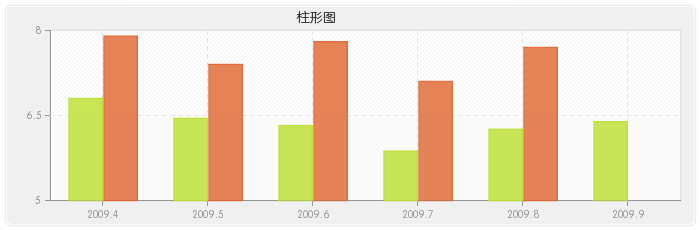
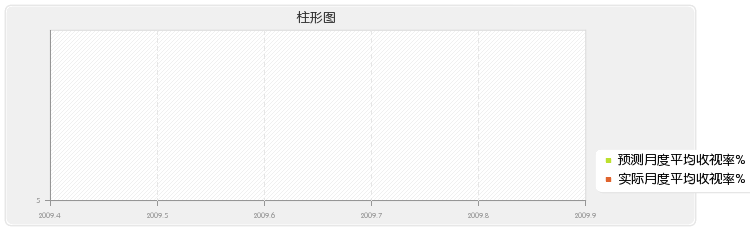
robbin

diff --git a/index.php b/index.php
@@ -578,14 +578,14 @@ total("首页","other");
  				<div class=list_tlm id=list_tlm1 >
  					<ul>
  						<?php for($i=0; $i<count($record_subject); $i++){?>
- 						<li><div style="width:210px; height:20px; line-height:20px; float:left; display:inline;"><span style="color:#CCCCCC">·</span><a title="<?php echo delhtml($record_subject[$i]->short_title); ?>" href="/<?php echo $record_subject[$i]->platform ?>/news/news.php?id=<?php echo $record_subject[$i]->id ?>" target=_blank><?php echo $record_subject[$i]->short_title ?></a></div></li>
+ 						<li><div style="width:200px; height:20px; line-height:20px; float:left; display:inline;"><span style="color:#CCCCCC">·</span><a title="<?php echo delhtml($record_subject[$i]->short_title); ?>" href="/<?php echo $record_subject[$i]->platform ?>/news/news.php?id=<?php echo $record_subject[$i]->id ?>" target=_blank><?php echo $record_subject[$i]->short_title ?></a></div></li>
  						<? }?>
  				  </ul>
  				</div>
  				<div class=list_tlm id=list_tlm2 style="display:inline;">
  					<ul>
  						<?php for($i=0; $i<count($record_out); $i++){?>
- 						<li><div style="width:210px; height:20px; line-height:20px; float:left; display:inline;"><span style="color:#CCCCCC">·</span><a title="<?php echo delhtml($record_out[$i]->short_title); ?>" href="/<?php echo $record_out[$i]->platform ?>/news/news.php?id=<?php echo $record_out[$i]->id ?>" target=_blank><?php echo $record_out[$i]->short_title ?></a></div></li>
+ 						<li><div style="width:200px; height:20px; line-height:20px; float:left; display:inline;"><span style="color:#CCCCCC">·</span><a title="<?php echo delhtml($record_out[$i]->short_title); ?>" href="/<?php echo $record_out[$i]->platform ?>/news/news.php?id=<?php echo $record_out[$i]->id ?>" target=_blank><?php echo $record_out[$i]->short_title ?></a></div></li>
  						<? }?>
  				  </ul>
  				</div>

diff --git a/pChart/Example12.php b/pChart/Example12.php
@@ -9,14 +9,15 @@
 
  // Dataset definition 
  $DataSet = new pData;
- $DataSet->ImportFromCSV('Sample/foldincom.csv',",",array(1,2),flase,0); 
+ $DataSet->ImportFromCSV('Sample/foldincom.csv',",",array(1,2),false,0); 
  $DataSet->AddAllSeries();
  $DataSet->SetAbsciseLabelSerie(); 
  $DataSet->SetSerieName("预测月度平均收视率%","Serie1");
  $DataSet->SetSerieName("实际月度平均收视率%","Serie2");
+
  
  // Initialise the graph
- $Test = new pChart(700,230);
+ $Test = new pChart(750,230);
  $Test->setFontProperties("Fonts/zhunyuan.ttf",8);
  $Test->setGraphArea(50,30,680,200);
  $Test->drawFilledRoundedRectangle(7,7,693,223,5,240,240,240);
@@ -30,13 +31,23 @@
  $Test->drawTreshold(0,143,55,72,TRUE,TRUE);
 
  // Draw the bar graph
- $Test->drawBarGraph($DataSet->GetData(),$DataSet->GetDataDescription(),TRUE,80);
+ $Test->drawBarGraph($DataSet->GetData(),$DataSet->GetDataDescription(),TRUE,80);
+ 
+ $DataSet1 = new pData;
+ $DataSet1->ImportFromCSV('Sample/foldincom.csv',",",array(3,4),false,0); 
+ $DataSet1->AddAllSeries();
+ $DataSet1->SetAbsciseLabelSerie(); 
+ $DataSet1->SetSerieName("置信区间","Serie1");
+
+ $Test->drawLineGraph($DataSet1->GetData(),$DataSet1->GetDataDescription());
+ $Test->drawPlotGraph($DataSet1->GetData(),$DataSet1->GetDataDescription(),3,2,255,255,255);
 
  // Finish the graph
- $Test->setFontProperties("Fonts/zhunyuan.ttf",8);
- $Test->drawLegend(550,$DataSet->GetDataDescription(),255,255,255);
+ $Test->setFontProperties("Fonts/zhunyuan.ttf",10);
+ $Test->drawLegend(596,150,$DataSet->GetDataDescription(),255,255,255);
  $Test->setFontProperties("Fonts/zhunyuan.ttf",10);
  $Test->drawTitle(50,22,"柱形图",50,50,50,585);
  $Test->Render("example12.jpg");
- echo 'OK';
+ 
+ echo "OK";
 ?>

diff --git a/sslfx/index.php b/sslfx/index.php
@@ -32,15 +32,12 @@
 					<form method=post name=sndml action=sendmail.php ENCTYPE="multipart/form-data"> 
 						<table> 
 						<tr ><td>发送者：</td> 
-						<td><input type=text name=from ></td> 
-						</tr> 
-						<tr ><td>主题：</td> 
-						<td><input type=text name=subject ></td> 
+						<td><input type=text name=from ></td>
+						<td>主题：</td> 
+						<td><input type=text name=subject ></td>
 						</tr> 
 						<tr ><td>附件：</td> 
-						<td><input type=file name=upload_file></td> 
-						</tr> 
-						<tr><td>&nbsp</td> 
+						<td><input type=file name=upload_file></td> <td>&nbsp</td> 
 						<td><input type="submit" value="发送"> 
 						</td> 
 						</tr> 
